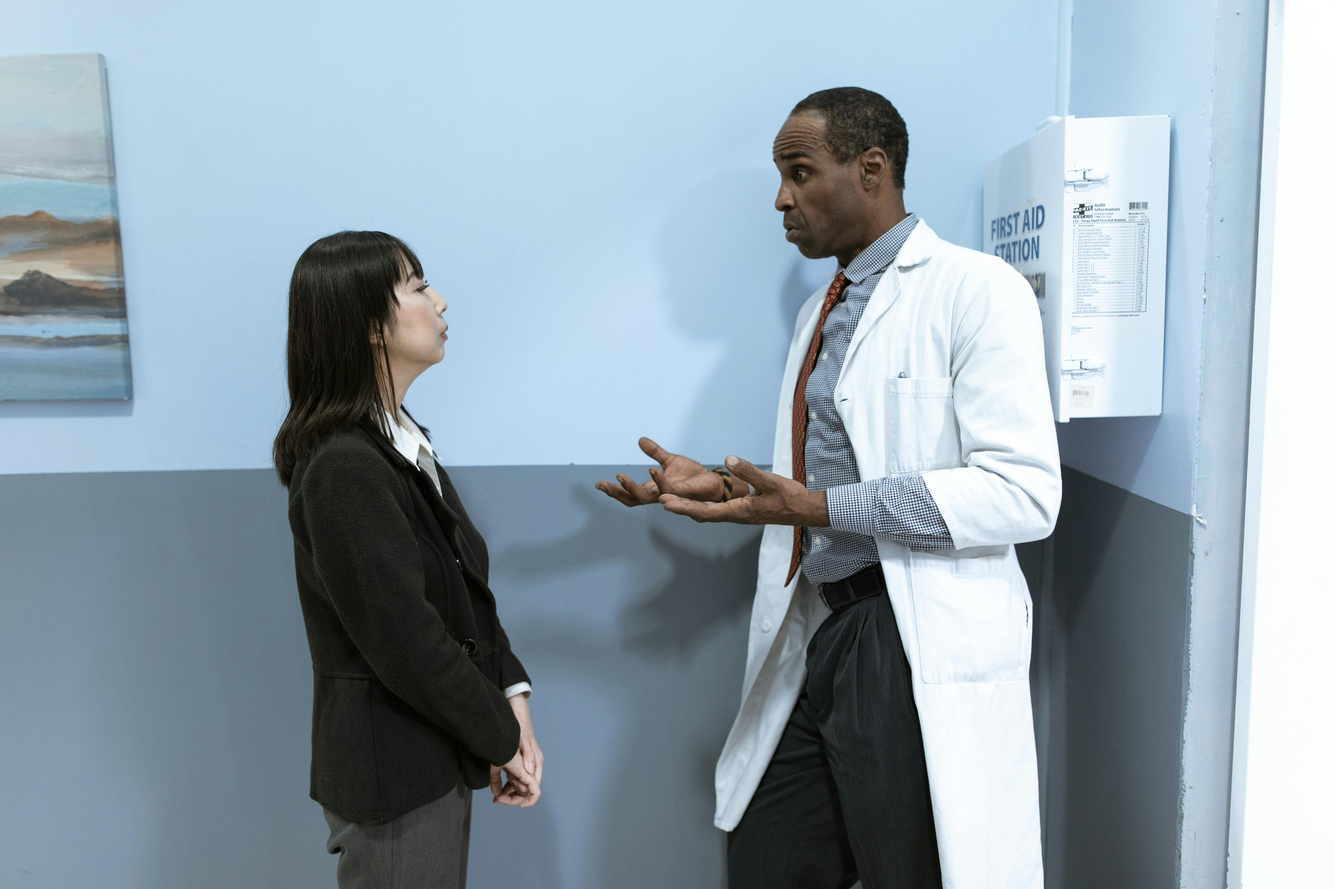
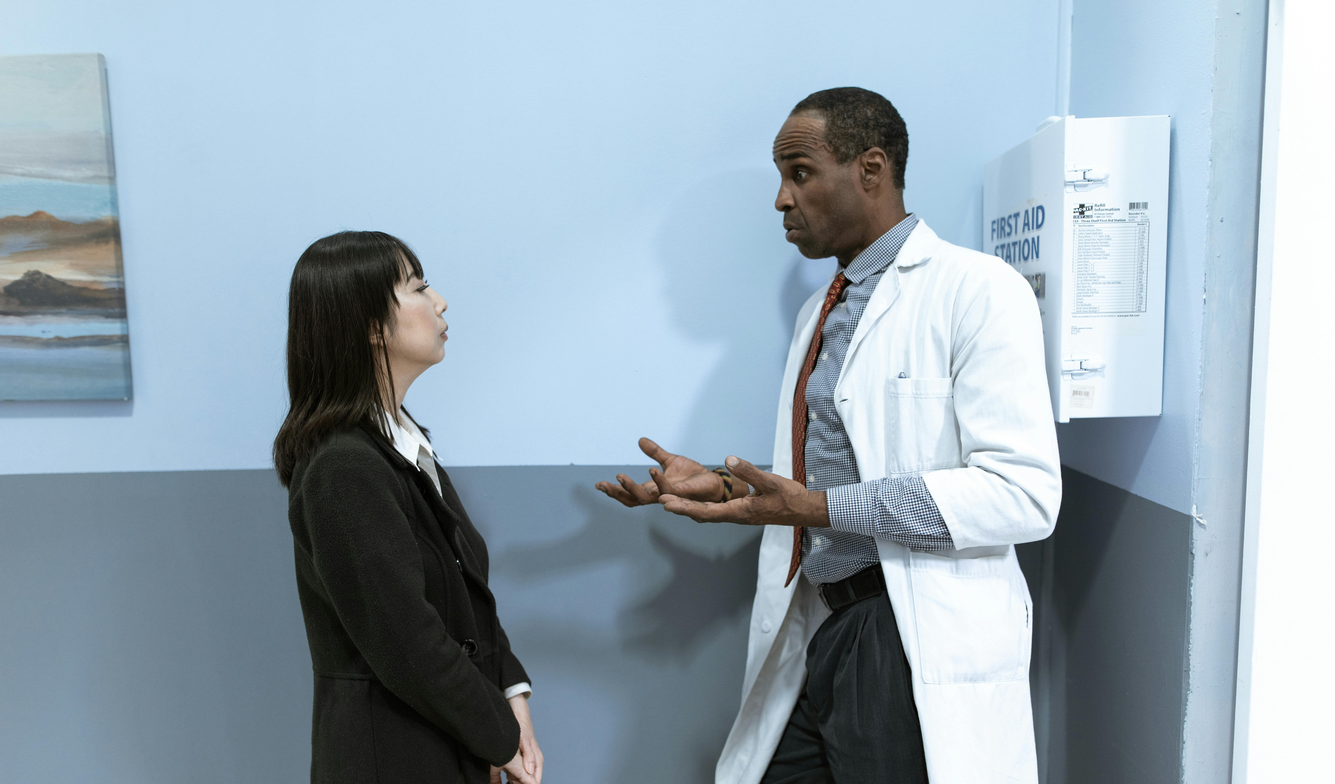
image resolve

diff --git a/index.html b/index.html
@@ -143,8 +143,8 @@
             >
               <div class="box">
                 <img
-                  src="https://plus.unsplash.com/premium_photo-1663040621105-7d40069c8049?q=80&w=1470&auto=format&fit=crop&ixlib=rb-4.0.3&ixid=M3wxMjA3fDB8MHxwaG90by1wYWdlfHx8fGVufDB8fHx8fA%3D%3D"
-                  class="img-fluid"
+                  src="assets/img/0.jpg"
+                class="img-fluid"
                   alt=""
                 />
                 <h3>Weekly Doctor check in</h3>

diff --git a/assets/css/style.css b/assets/css/style.css
@@ -691,7 +691,7 @@ section {
 }
 
 .values .box img {
-  padding: 30px 50px;
+  padding: 34px 6px;
   transition: 0.5s;
   transform: scale(1.1);
 }
